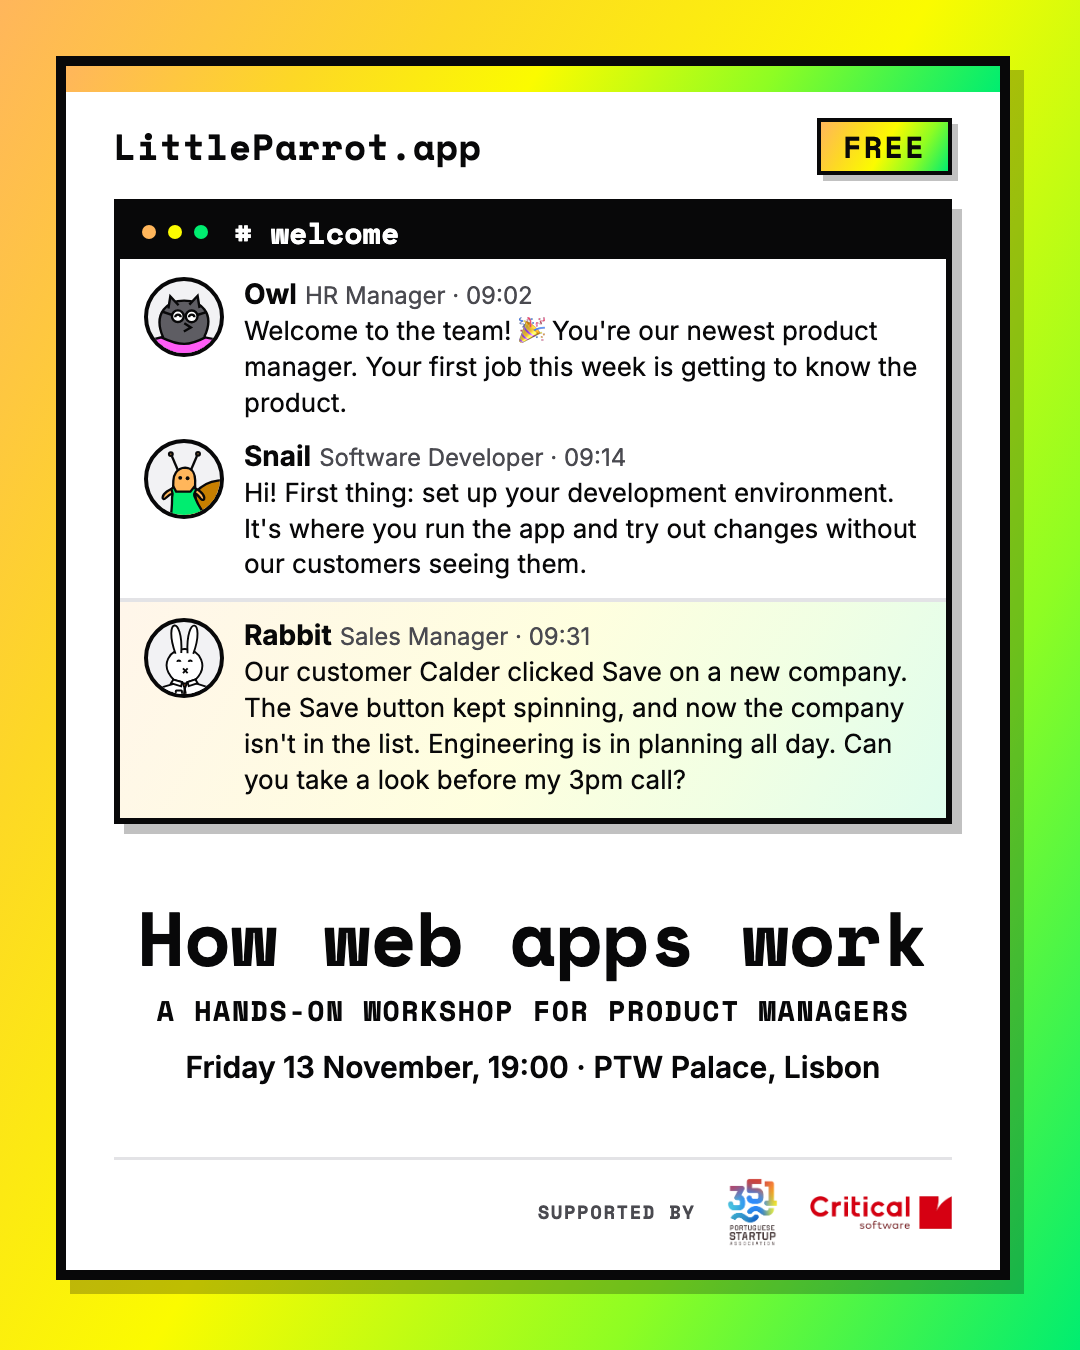
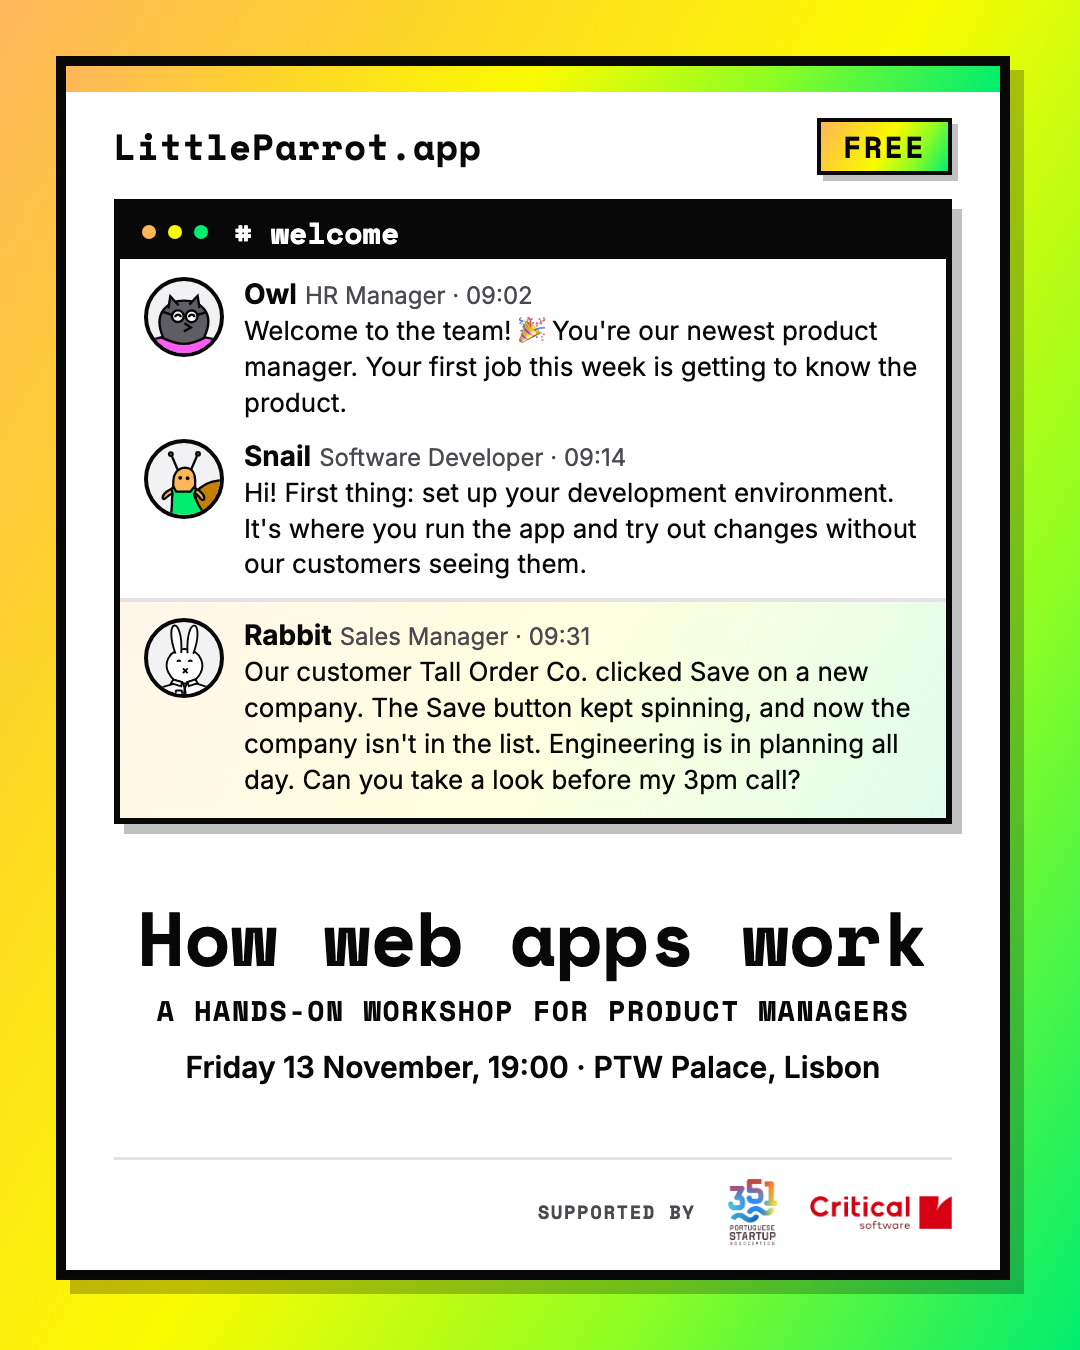
🌏 Call the customer Tall Order Co. on the workshop onboarding image
Claude-Session: https://claude.ai/code/session_01CxUsxj1pG4AWqmJL4Go41B

Changed region(s): [[0.2139, 0.4667, 0.8556, 0.5911]]

diff --git a/productkind/marketing/content/campaigns/2026-11-technical-pm-launch/workshop-onboarding-image/carousel.html b/productkind/marketing/content/campaigns/2026-11-technical-pm-launch/workshop-onboarding-image/carousel.html
@@ -300,9 +300,9 @@
               <div>
                 <div class="who"><b>Rabbit</b>Sales Manager · 09:31</div>
                 <p>
-                  Our customer Calder clicked Save on a new company. The Save button kept spinning,
-                  and now the company isn't in the list. Engineering is in planning all day. Can you
-                  take a look before my 3pm call?
+                  Our customer Tall Order Co. clicked Save on a new company. The Save button kept
+                  spinning, and now the company isn't in the list. Engineering is in planning all
+                  day. Can you take a look before my 3pm call?
                 </p>
               </div>
             </div>

diff --git a/productkind/marketing/content/campaigns/2026-11-technical-pm-launch/workshop-onboarding-image/spec.md b/productkind/marketing/content/campaigns/2026-11-technical-pm-launch/workshop-onboarding-image/spec.md
@@ -28,7 +28,7 @@ Visual: the Little Parrot gradient as the background, with the design system's w
 
 **Snail** · Software Developer · 09:14 Hi! First thing: set up your development environment. It's where you run the app and try out changes without our customers seeing them.
 
-**Rabbit** · Sales Manager · 09:31 Our customer Calder clicked Save on a new company. The Save button kept spinning, and now the company isn't in the list. Engineering is in planning all day. Can you take a look before my 3pm call?
+**Rabbit** · Sales Manager · 09:31 Our customer Tall Order Co. clicked Save on a new company. The Save button kept spinning, and now the company isn't in the list. Engineering is in planning all day. Can you take a look before my 3pm call?
 
 ## Alt text
 
